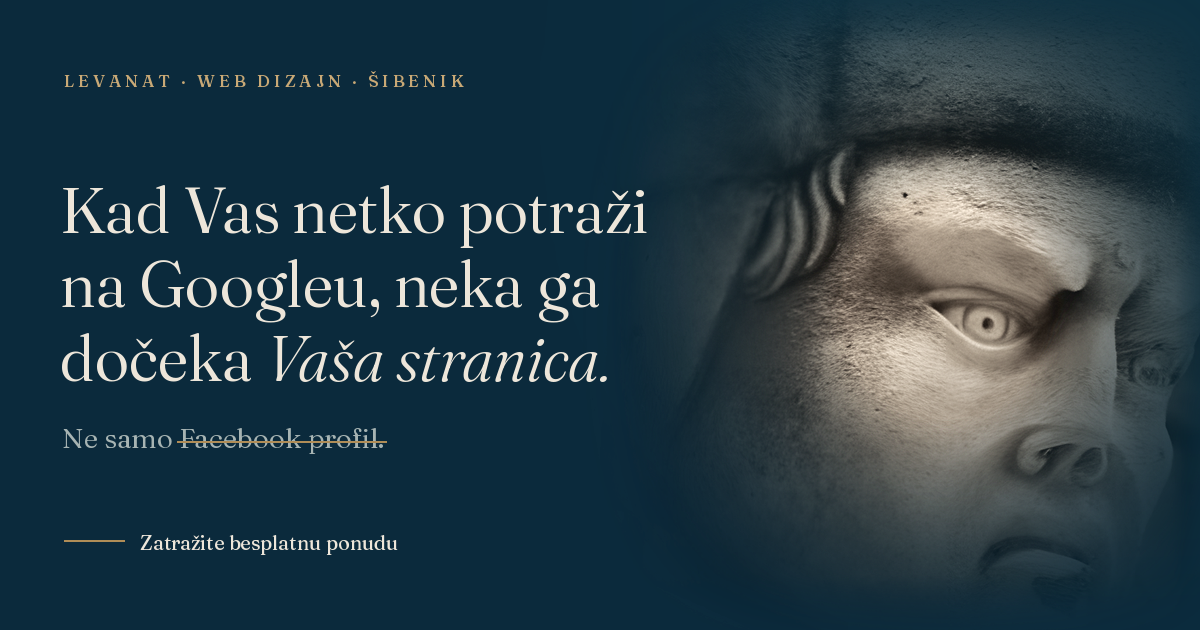
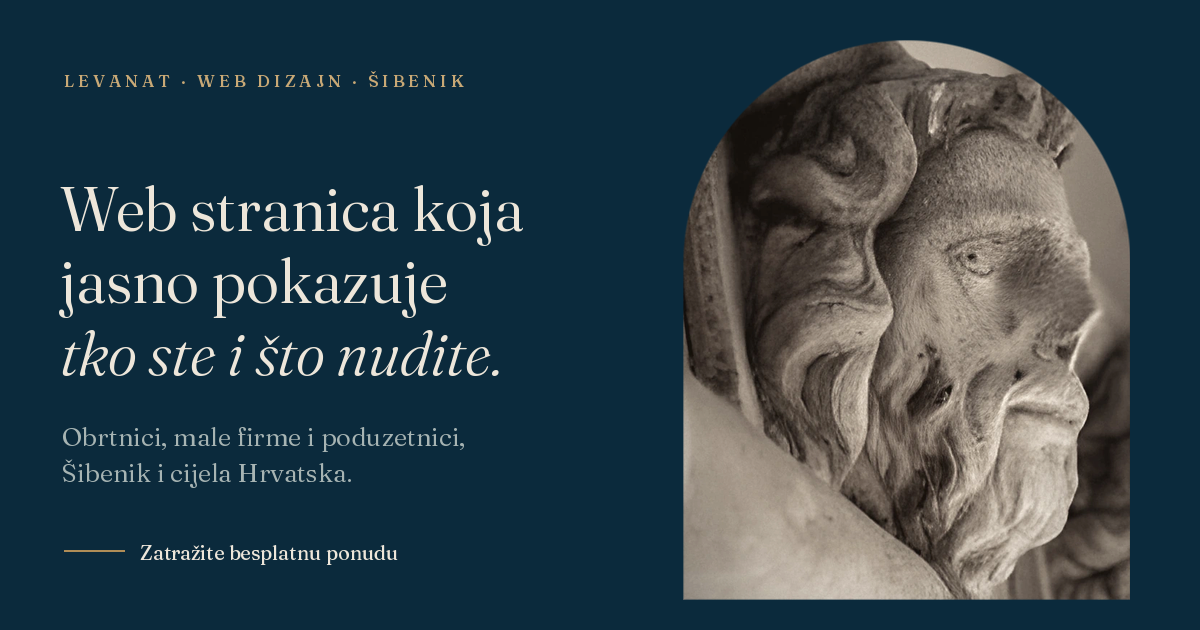
Doradba teksta: novi hero, jasnije objašnjenje stranice uz društvene mreže, kraća sekcija Šibenik
- Hero: „Web stranica koja jasno pokazuje tko ste i što nudite.”, podnaslov i
  kratko objašnjenje (dizajn, brzina, mobitel, jasan sadržaj)
- Sekcija o društvenim mrežama bez tvrdnji o Google pozicijama
- Šibenik: „Radim iz Šibenika.”, kraći tekstovi i nove misli uz četiri osobe
- Prirodniji tekstovi usluga, završnih poziva i zaglavlja podstranica
- Nova OG slika s novim naslovom

Claude-Session: https://claude.ai/code/session_01MebQohEfdbTwJFxm1rcviL

diff --git a/src/data/sibenik.ts b/src/data/sibenik.ts
@@ -24,10 +24,10 @@ export const sibencani: Sibencanin[] = [
     godine: 'oko 1410.–1473.',
     uloga: 'Graditelj katedrale sv. Jakova',
     tekst:
-      'Od 1441. vodio je gradnju šibenske katedrale i na njezine apside uklesao 71 kamenu glavu. Nijedna nije ista. Njegov kip, djelo Ivana Meštrovića, i danas stoji ispred katedrale.',
+      'Gradnju je vodio od 1441. Na apside katedrale uklesao je 71 kamenu glavu i nijedna nije ista.',
     misao: [
-      'Detalj je potpis.',
-      'Svaka web stranica koju izrađujem u Šibeniku nastaje s istim uvjerenjem: ono što većina ne primijeti na prvi pogled čini razliku.',
+      '71 lice. Nijedno isto.',
+      'Detalji čine razliku. Zato svaka Levanat stranica ima svoj karakter.',
     ],
   },
   {
@@ -37,10 +37,10 @@ export const sibencani: Sibencanin[] = [
     godine: '1551.–1617.',
     uloga: 'Izumitelj i jezikoslovac',
     tekst:
-      'Šibenčanin koji je u knjizi Machinae novae nacrtao Homo volans, letećeg čovjeka pod padobranom, jedan od najranijih nacrta padobrana. Napisao je i rječnik pet najuglednijih europskih jezika.',
+      'Šibenčanin koji je u knjizi Machinae novae nacrtao Homo volans, jedan od najranijih nacrta padobrana.',
     misao: [
-      'Svaka ideja počinje nacrtom.',
-      'Tako počinje i izrada web stranice: prije prvog retka koda slažem jasan plan onoga što Vaši kupci trebaju vidjeti.',
+      'Od ideje do izvedbe.',
+      'Dobra ideja vrijedi tek kada postane nešto što stvarno radi.',
     ],
   },
   {
@@ -48,12 +48,12 @@ export const sibencani: Sibencanin[] = [
     alt: 'Portret Ante Šupuka, gradonačelnika Šibenika',
     ime: 'Ante Šupuk',
     godine: '1838.–1904.',
-    uloga: 'Gradonačelnik koji je upalio svjetlo',
+    uloga: 'Gradonačelnik Šibenika',
     tekst:
-      'Zahvaljujući njemu Šibenik je 1895. među prvim gradovima na svijetu dobio javnu rasvjetu na izmjeničnu struju, iz hidroelektrane Jaruga na Krki.',
+      'Gradonačelnik za čijeg je mandata Šibenik 1895. dobio javnu rasvjetu na izmjeničnu struju, iz hidroelektrane Jaruga na Krki.',
     misao: [
-      'Šibenik je bio vidljiv prije drugih.',
-      'Neka i Vaš posao bude vidljiv. Web stranica i lokalni SEO u Šibeniku služe upravo tome: da Vas kupci pronađu na Googleu.',
+      'Šibenik se može mijenjati.',
+      'Dobra web stranica ne treba samo izgledati dobro. Treba pomoći Vašem poslu da raste.',
     ],
   },
   {
@@ -61,12 +61,12 @@ export const sibencani: Sibencanin[] = [
     alt: 'Dražen Petrović u dresu Šibenke s brojem 4, s loptom na terenu',
     ime: 'Dražen Petrović',
     godine: '1964.–1993.',
-    uloga: 'Košarkaški genij iz Šibenika',
+    uloga: 'Košarkaš',
     tekst:
-      'Iz šibenske dvorane, u dresu Šibenke, stigao je do NBA lige i Kuće slavnih. Dokaz da talent i rad iz Šibenika mogu stići do cijelog svijeta.',
+      'Iz šibenske dvorane i dresa Šibenke stigao je do NBA lige i Kuće slavnih.',
     misao: [
-      'Iz Šibenika do svijeta.',
-      'Radim s obrtnicima i malim firmama iz Šibenika i cijele Hrvatske. Dobra stranica vodi Vaš posao dalje od Vaše ulice.',
+      'Biti prepoznatljiv.',
+      'Vaša stranica treba jasno pokazati tko ste i po čemu ste drugačiji.',
     ],
   },
 ];

diff --git a/src/config.ts b/src/config.ts
@@ -29,7 +29,7 @@ export const services = [
     href: '/usluge/izrada-web-stranica',
     title: 'Izrada web stranica',
     short:
-      'Brza, pregledna stranica s Vašim imenom i domenom. Složena za mobitel, jer Vas tako većina ljudi i traži.',
+      'Stranica na Vašoj domeni, složena najprije za mobitel, s jasnim popisom usluga i kontaktom.',
     meta: 'Okvirno od 200 €',
   },
   {
@@ -37,7 +37,7 @@ export const services = [
     href: '/usluge/seo-optimizacija',
     title: 'SEO optimizacija',
     short:
-      'Lokalni SEO: kako biste se pojavili kad netko u Šibeniku ili okolici na Googleu upiše ono čime se bavite.',
+      'Tehnička osnova, sadržaj i Google Business profil složeni onako kako Google preporučuje.',
     meta: 'Lokalna vidljivost',
   },
   {
@@ -45,7 +45,7 @@ export const services = [
     href: '/usluge/ai-chatbot',
     title: 'AI chatbot',
     short:
-      'Asistent na Vašoj stranici koji posjetiteljima odgovara na osnovna pitanja, i usred noći i nedjeljom.',
+      'Odgovara posjetiteljima na česta pitanja o Vašem poslu, i kad Vi ne stignete.',
     meta: 'Iz Vaših materijala',
   },
   {

diff --git a/src/styles/global.css b/src/styles/global.css
@@ -3271,3 +3271,26 @@ body.menu-open .asistent {
   text-decoration: underline;
   text-underline-offset: 3px;
 }
+
+/* Kratko objašnjenje ispod podnaslova u heroju */
+.hero__opis {
+  max-width: 34em;
+  margin: 0;
+  color: var(--na-moru-2);
+}
+.hero__foot {
+  gap: 1.25rem;
+}
+.hero__actions {
+  margin-top: 0.75rem;
+}
+/* Uvodna rečenica sekcije Šibenik */
+.friz__uvod {
+  color: var(--na-moru-2);
+  max-width: 32em;
+}
+@media (min-width: 900px) {
+  .friz__head .friz__uvod {
+    grid-column: 4 / span 7;
+  }
+}
